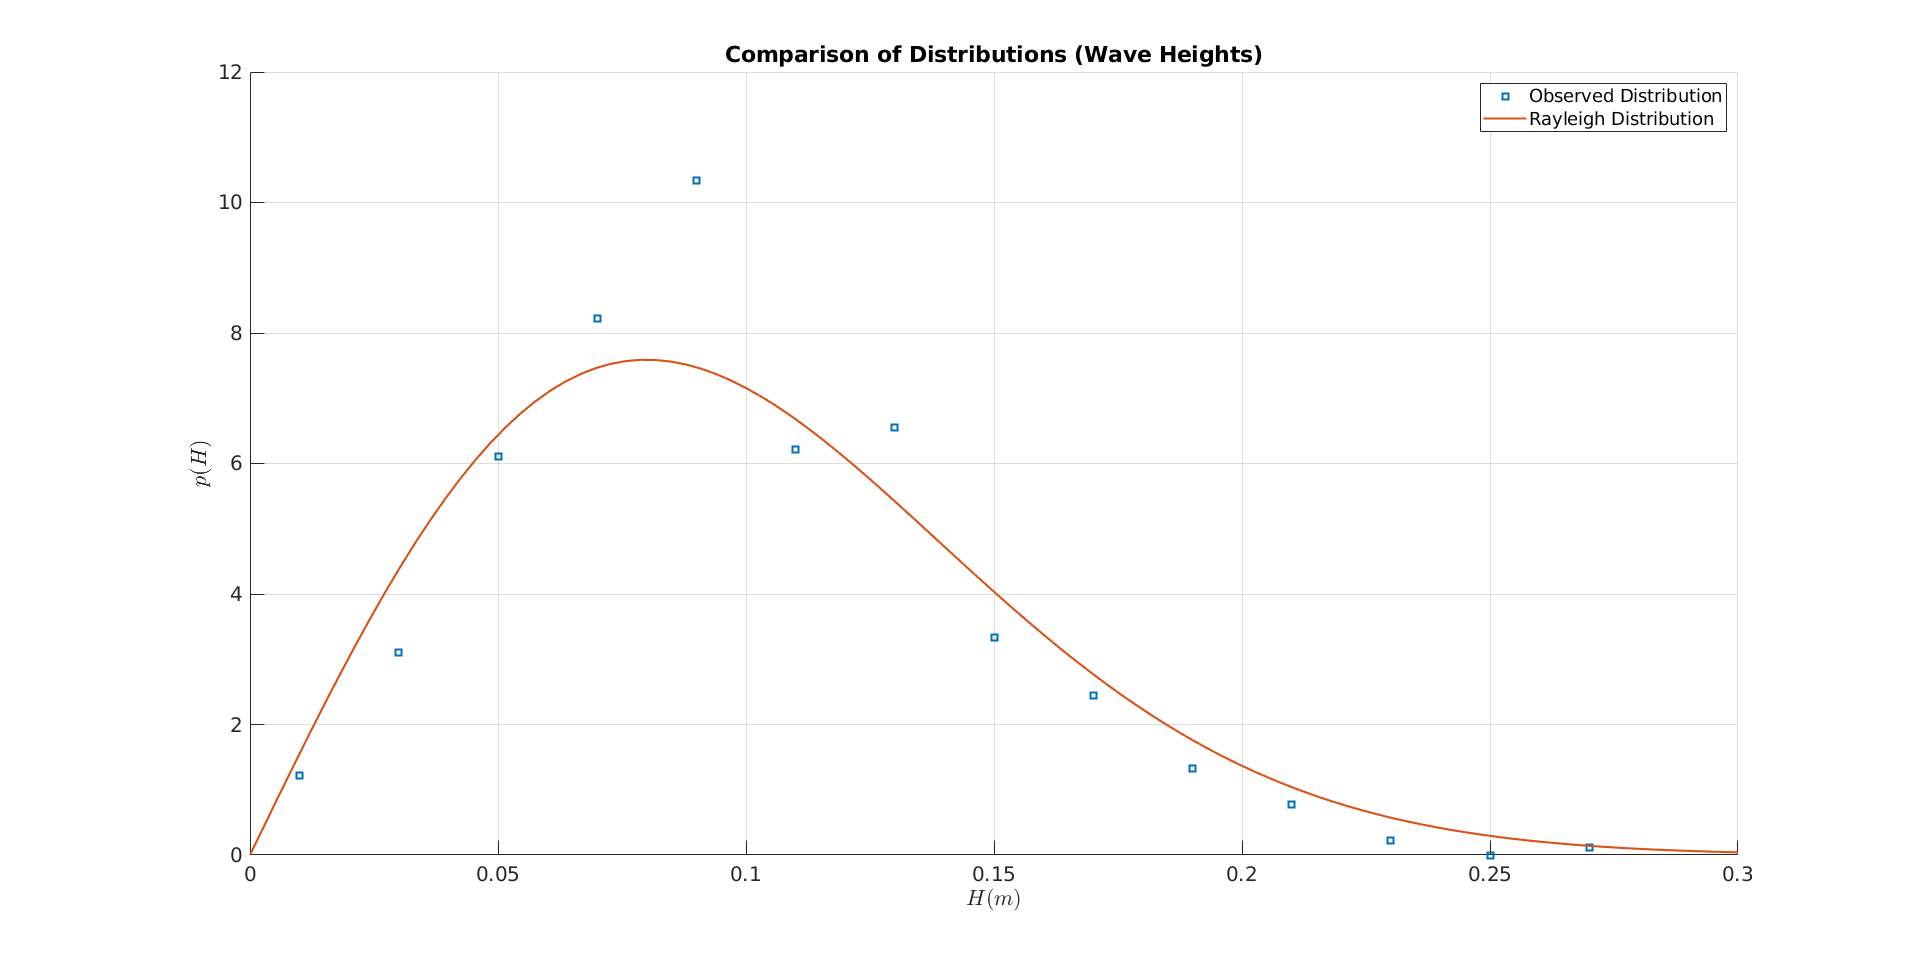
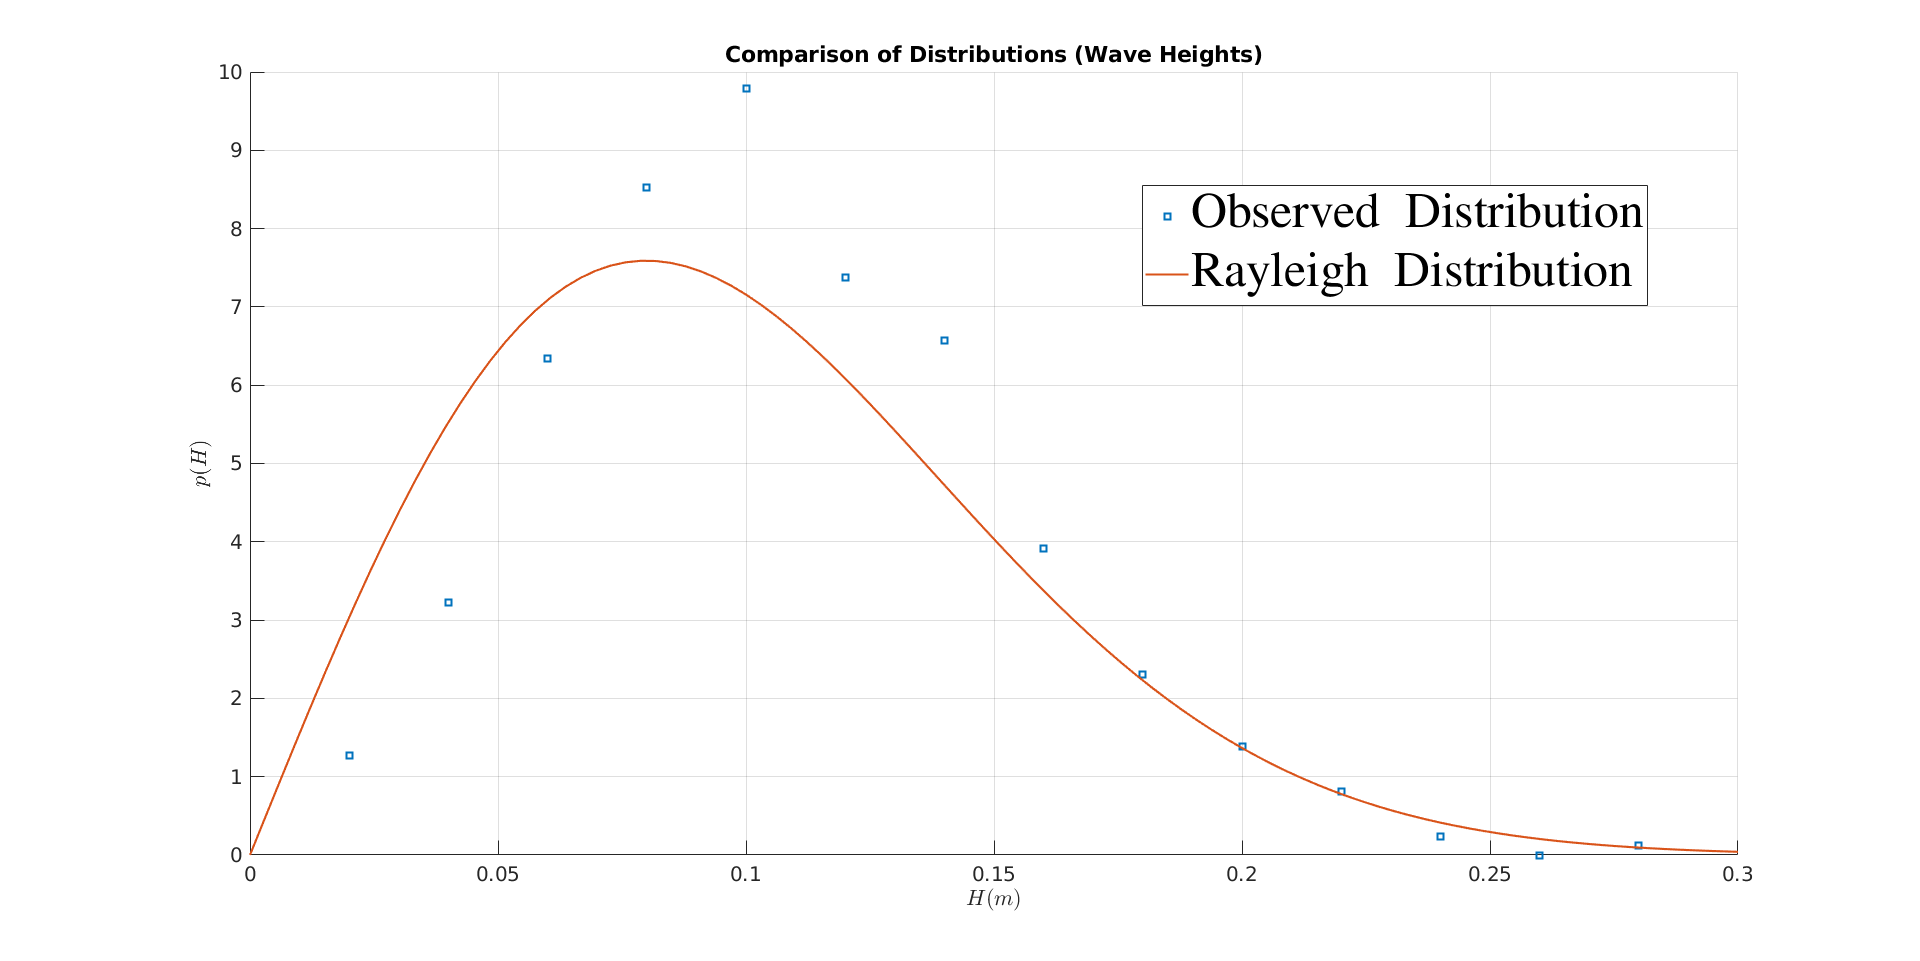
added smoothing using lanczos and moving average

diff --git a/scripts/generate_spectra.m b/scripts/generate_spectra.m
@@ -1,4 +1,4 @@
-function [mag, phase, frequencies] = generate_spectra(data, t, Tavg, varargin)
+function [mag, phase, frequencies, varargout] = generate_spectra(data, t, Tavg, varargin)
 %GENERATE_SPECTRA generates the fft spectra of the given data
 %   [mag, phase, frequencies] = generate_spectra(data, t)
 %   MAG             FFT magnitude corresponding to each frequency
@@ -18,6 +18,9 @@ function [mag, phase, frequencies] = generate_spectra(data, t, Tavg, varargin)
 p = inputParser;
 addParameter(p, 'Plot', false, @islogical);
 addParameter(p, 'ComparePM', false, @islogical);
+paramName = 'Smoothen';
+defaultVal = 0;
+addParameter(p,paramName,defaultVal)
 parse(p, varargin{:});
 
 fft_data = fft(data); % a + ib
@@ -75,13 +78,51 @@ if pm_flag
     figure();
     hold on;
     grid on;
-    plot(frequencies(1:floor(N/2)+1), mag(1:floor(N/2)+1));
+    plot(frequencies(1:floor(N/2)+1), mag(1:floor(N/2)+1)/2);
     plot(f,S);
     xlabel('f (hz)');
     ylabel('m^2/hz');
     hold off;
     
 end
+
 % we can perform smoothing here
+if p.Results.Smoothen == 0
+
+    windowSize = 30; 
+    b = (1/windowSize)*ones(1,windowSize);
+    a = 1;
+    filtered_mag = filter(b,a,mag(1:floor(N/2)+1));
+
+    set(0,'DefaultAxesFontName','Times New Roman')
+    set(0,'DefaultAxesFontSize',14)
+    set(0,'DefaultLineLineWidth',2.5)
+    figure();
+    hold on;
+    grid on;
+    plot(frequencies(1:floor(N/2)+1), mag(1:floor(N/2)+1));
+    plot(frequencies(1:floor(N/2)+1),filtered_mag)
+    xlabel('Frequency (Hz)');
+    ylabel('FFT magnitude');
+    legend('fft', 'moving average')
+    hold off;
+end
+if p.Results.Smoothen == 1
+    wt = lanc(200,1/50);
+    lanc_filtered = conv(mag(1:floor(N/2)+1),wt,'same');
+
+    set(0,'DefaultAxesFontName','Times New Roman')
+    set(0,'DefaultAxesFontSize',14)
+    set(0,'DefaultLineLineWidth',2)
+    figure();
+    hold on;
+    grid on;
+    plot(frequencies(1:floor(N/2)+1), mag(1:floor(N/2)+1));
+    plot(frequencies(1:floor(N/2)+1),lanc_filtered)
+    xlabel('Frequency (Hz)');
+    ylabel('FFT magnitude');
+    legend('fft', 'lanczos')
+    hold off;
+end
 end
 

diff --git a/scripts/validate_wvhtdata.m b/scripts/validate_wvhtdata.m
@@ -1,4 +1,4 @@
-function [outputArg1,outputArg2] = validate_wvhtdata(data,t,varargin)
+function validate_wvhtdata(data,t,varargin)
 %VALIDATE_WVHTDATA Summary of this function goes here
 %   Detailed explanation goes here
 set(0,'DefaultAxesFontName','Times New Roman')
@@ -19,6 +19,12 @@ bin_width = (max(wave_hts)-min(wave_hts))/nbins;
 
 figure;
 h_waveht = histogram(wave_hts,nbins);
+binCenter = zeros(nbins,1);
+
+for i=1:numel(h_waveht.BinEdges)-1
+binCenter(i) = (h_waveht.BinEdges(i)+h_waveht.BinEdges(i+1))/2;
+end
+
 xlabel('$H (m)$','Interpreter','latex');
 ylabel('number of data points');
 title('Wave Height Histogram Plot');
@@ -41,7 +47,7 @@ if wvhtPDF_flag
     figure();
     hold on;
     grid on;
-    plot(h_waveht.BinEdges(1:end-1), obs_ht_dist,'square');
+    plot(binCenter, obs_ht_dist,'square');
     plot(x, rayleigh_dist);
     xlabel('$H (m)$','Interpreter','latex');
     ylabel('$p(H)$','Interpreter','latex');

diff --git a/scripts/validate_data.m b/scripts/validate_data.m
@@ -33,6 +33,12 @@ bin_width = (max(eta)-min(eta))/nbins;
 
 figure;
 h = histogram(eta,nbins);
+binCenter = zeros(nbins,1);
+
+for i=1:numel(h.BinEdges)-1
+binCenter(i) = (h.BinEdges(i)+h.BinEdges(i+1))/2;
+end
+
 xlabel('$\eta$','Interpreter','latex');
 ylabel('number of data points');
 title('Histogram Plot');
@@ -55,7 +61,7 @@ if etaPDF_flag
     figure();
     hold on;
     grid on;
-    plot(h.BinEdges(1:end-1), obs_dist,'square');
+    plot(binCenter, obs_dist,'square');
     plot(x, theor_dist);
     xlabel('$\eta (m)$','Interpreter','latex');
     ylabel('$p(\eta)$','Interpreter','latex');
